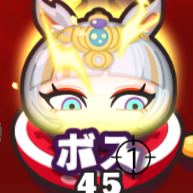
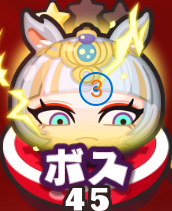
周回が途中で詰まったりしないように強化

diff --git a/main.py b/main.py
@@ -48,9 +48,18 @@ def device_worker(port):
     koukan_1_img = load_template('koukan_1.png')
     koukan_2_img = load_template('koukan_2.png')
     team_img = load_template('team.png')
+    score_item_img = load_template('score_item.png')
+    team_yokai_img = load_template('team_yokai.png')
+    whisper_img = load_template('whisper.png')
+    ranking_2_img = load_template('ranking_2.png')
+    yubin_img = load_template('yubin.png')
+    boss_img = load_template('boss.png')
+    click_start_img = load_template('click_start.png')
+    score_atk_img = load_template('score_atk.png')
     # タップ対象画像
     box_key_list_close_img = load_template('box-key_list_close.png')
     score_close_img = load_template('score_close.png')
+    click_stop_img = load_template('click_stop.png')
     while True:
         try:
             # エミュレーターが起動していない場合は何も出力せずスキップ
@@ -63,6 +72,24 @@ def device_worker(port):
                 time.sleep(0.5)  # アプリ未起動時のみ少し長めの待機
                 continue
             screenshot = get_screenshot(device)
+            
+            # score_atk.pngが検知された場合はscore_close.pngとwhisper.png以外の操作を無効化
+            score_atk_pos = find_image_on_screen(score_atk_img, screenshot, threshold=0.8)
+            if score_atk_pos:
+                print(f'score_atk.png検出 → score_close.pngとwhisper.png以外の操作無効化 ({serial})')
+                # score_close.pngをチェックしてタップ
+                score_close_pos = find_image_on_screen(score_close_img, screenshot, threshold=0.8)
+                if score_close_pos:
+                    print(f'score_atk.png画面でscore_close.png検出→タップ ({serial})')
+                    tap(device, score_close_pos)
+                    continue
+                # whisper.pngをチェックしてタップ
+                whisper_pos = find_image_on_screen(whisper_img, screenshot, threshold=0.8)
+                if whisper_pos:
+                    print(f'score_atk.png画面でwhisper.png検出→タップ ({serial})')
+                    tap(device, whisper_pos)
+                    continue
+                continue
             
             # フレームレート計測とリアルタイム表示
             frame_count += 1
@@ -97,19 +124,73 @@ def device_worker(port):
                     print(f'team.pngとplay.png同時検出したがbox-key_list_close.png見つからず ({serial})')
                 continue
             
+            # whisper.pngとranking_2.pngの両方が同時に検知されたらwhisper.pngをタップ
+            whisper_pos = find_image_on_screen(whisper_img, screenshot, threshold=0.8)
+            ranking_2_pos = find_image_on_screen(ranking_2_img, screenshot, threshold=0.8)
+            if whisper_pos and ranking_2_pos:
+                print(f'whisper.pngとranking_2.png同時検出→whisper.pngタップ ({serial})')
+                tap(device, whisper_pos)
+                continue
+            
+            # boss.pngとclick_start.pngの両方が同時に検知されたらclick_start.pngをタップ
+            # ただし、click_stop.pngが表示されている場合はタップしない
+            boss_pos = find_image_on_screen(boss_img, screenshot, threshold=0.8)
+            click_start_pos = find_image_on_screen(click_start_img, screenshot, threshold=0.95)
+            click_stop_pos = find_image_on_screen(click_stop_img, screenshot, threshold=0.95)
+            
+            if boss_pos and click_start_pos and not click_stop_pos:
+                print(f'boss.pngとclick_start.png同時検出（stop状態ではない）→click_start.pngタップ ({serial})')
+                tap(device, click_start_pos)
+                continue
+            elif boss_pos and click_start_pos and click_stop_pos:
+                print(f'boss.pngとclick_start.png検出したがstop状態のためタップしない ({serial})')
+                continue
+            
             # play.pngが検出されたら検出されなくなるまで連打
             play_pos = find_image_on_screen(play_img, screenshot, threshold=0.7)
             if play_pos:
-                print(f'play.png検出→連打開始 ({serial})')
-                while True:
-                    screenshot = get_screenshot(device)
-                    play_pos = find_image_on_screen(play_img, screenshot, threshold=0.7)
-                    if play_pos:
-                        print(f'play.png連打中→タップ ({serial})')
-                        tap(device, play_pos)
-                    else:
-                        print(f'play.png検出されなくなりました→連打終了 ({serial})')
-                        break
+                # play.pngタップの抑制条件をチェック
+                score_item_pos = find_image_on_screen(score_item_img, screenshot, threshold=0.8)
+                team_yokai_pos = find_image_on_screen(team_yokai_img, screenshot, threshold=0.8)
+                score_redJ_pos = find_image_on_screen(score_redJ_img, screenshot, threshold=0.8)
+                team_pos = find_image_on_screen(team_img, screenshot, threshold=0.8)
+                
+                # 抑制条件の判定
+                suppress_play = False
+                if score_item_pos and team_yokai_pos:
+                    print(f'score_item.png + team_yokai.png検出中 → play.pngタップ抑制 ({serial})')
+                    suppress_play = True
+                elif score_item_pos and score_redJ_pos:
+                    print(f'score_item.png + score_redJ.png検出中 → play.pngタップ抑制 ({serial})')
+                    suppress_play = True
+                elif score_item_pos and team_pos:
+                    print(f'score_item.png + team.png検出中 → play.pngタップ抑制 ({serial})')
+                    suppress_play = True
+                
+                if not suppress_play:
+                    print(f'play.png検出→連打開始 ({serial})')
+                    while True:
+                        screenshot = get_screenshot(device)
+                        play_pos = find_image_on_screen(play_img, screenshot, threshold=0.7)
+                        if play_pos:
+                            # 連打中も抑制条件を再チェック
+                            score_item_pos = find_image_on_screen(score_item_img, screenshot, threshold=0.8)
+                            team_yokai_pos = find_image_on_screen(team_yokai_img, screenshot, threshold=0.8)
+                            score_redJ_pos = find_image_on_screen(score_redJ_img, screenshot, threshold=0.8)
+                            team_pos = find_image_on_screen(team_img, screenshot, threshold=0.8)
+                            
+                            # 連打中の抑制条件チェック
+                            if (score_item_pos and team_yokai_pos) or \
+                               (score_item_pos and score_redJ_pos) or \
+                               (score_item_pos and team_pos):
+                                print(f'連打中に抑制条件検出 → 連打停止 ({serial})')
+                                break
+                            
+                            print(f'play.png連打中→タップ ({serial})')
+                            tap(device, play_pos)
+                        else:
+                            print(f'play.png検出されなくなりました→連打終了 ({serial})')
+                            break
                 continue  # play処理完了後は次のループへ
             
             # result_next.pngが検出されたら検出されなくなるまで連打
@@ -195,6 +276,28 @@ def device_worker(port):
                     tap(device, box_key_close_pos)
                 else:
                     print(f'team.png検出したがbox-key_list_close.png見つからず ({serial})')
+                continue
+            
+            # ⑧yubin.pngを検知したらbox-key_list_close.pngをタップ
+            yubin_pos = find_image_on_screen(yubin_img, screenshot, threshold=0.8)
+            if yubin_pos:
+                box_key_close_pos = find_image_on_screen(box_key_list_close_img, screenshot, threshold=0.8)
+                if box_key_close_pos:
+                    print(f'yubin.png検出→box-key_list_close.pngタップ ({serial})')
+                    tap(device, box_key_close_pos)
+                else:
+                    print(f'yubin.png検出したがbox-key_list_close.png見つからず ({serial})')
+                continue
+            
+            # ⑨whisper.pngを検知したらclick_stop.pngをタップ
+            whisper_pos = find_image_on_screen(whisper_img, screenshot, threshold=0.8)
+            if whisper_pos:
+                click_stop_pos = find_image_on_screen(click_stop_img, screenshot, threshold=0.95)
+                if click_stop_pos:
+                    print(f'whisper.png検出→click_stop.pngタップ ({serial})')
+                    tap(device, click_stop_pos)
+                else:
+                    print(f'whisper.png検出したがclick_stop.png見つからず ({serial})')
                 continue
             
             # home.png/google_play.png/google_login.png/gmail.pngが出ていたらクラッシュ復旧
